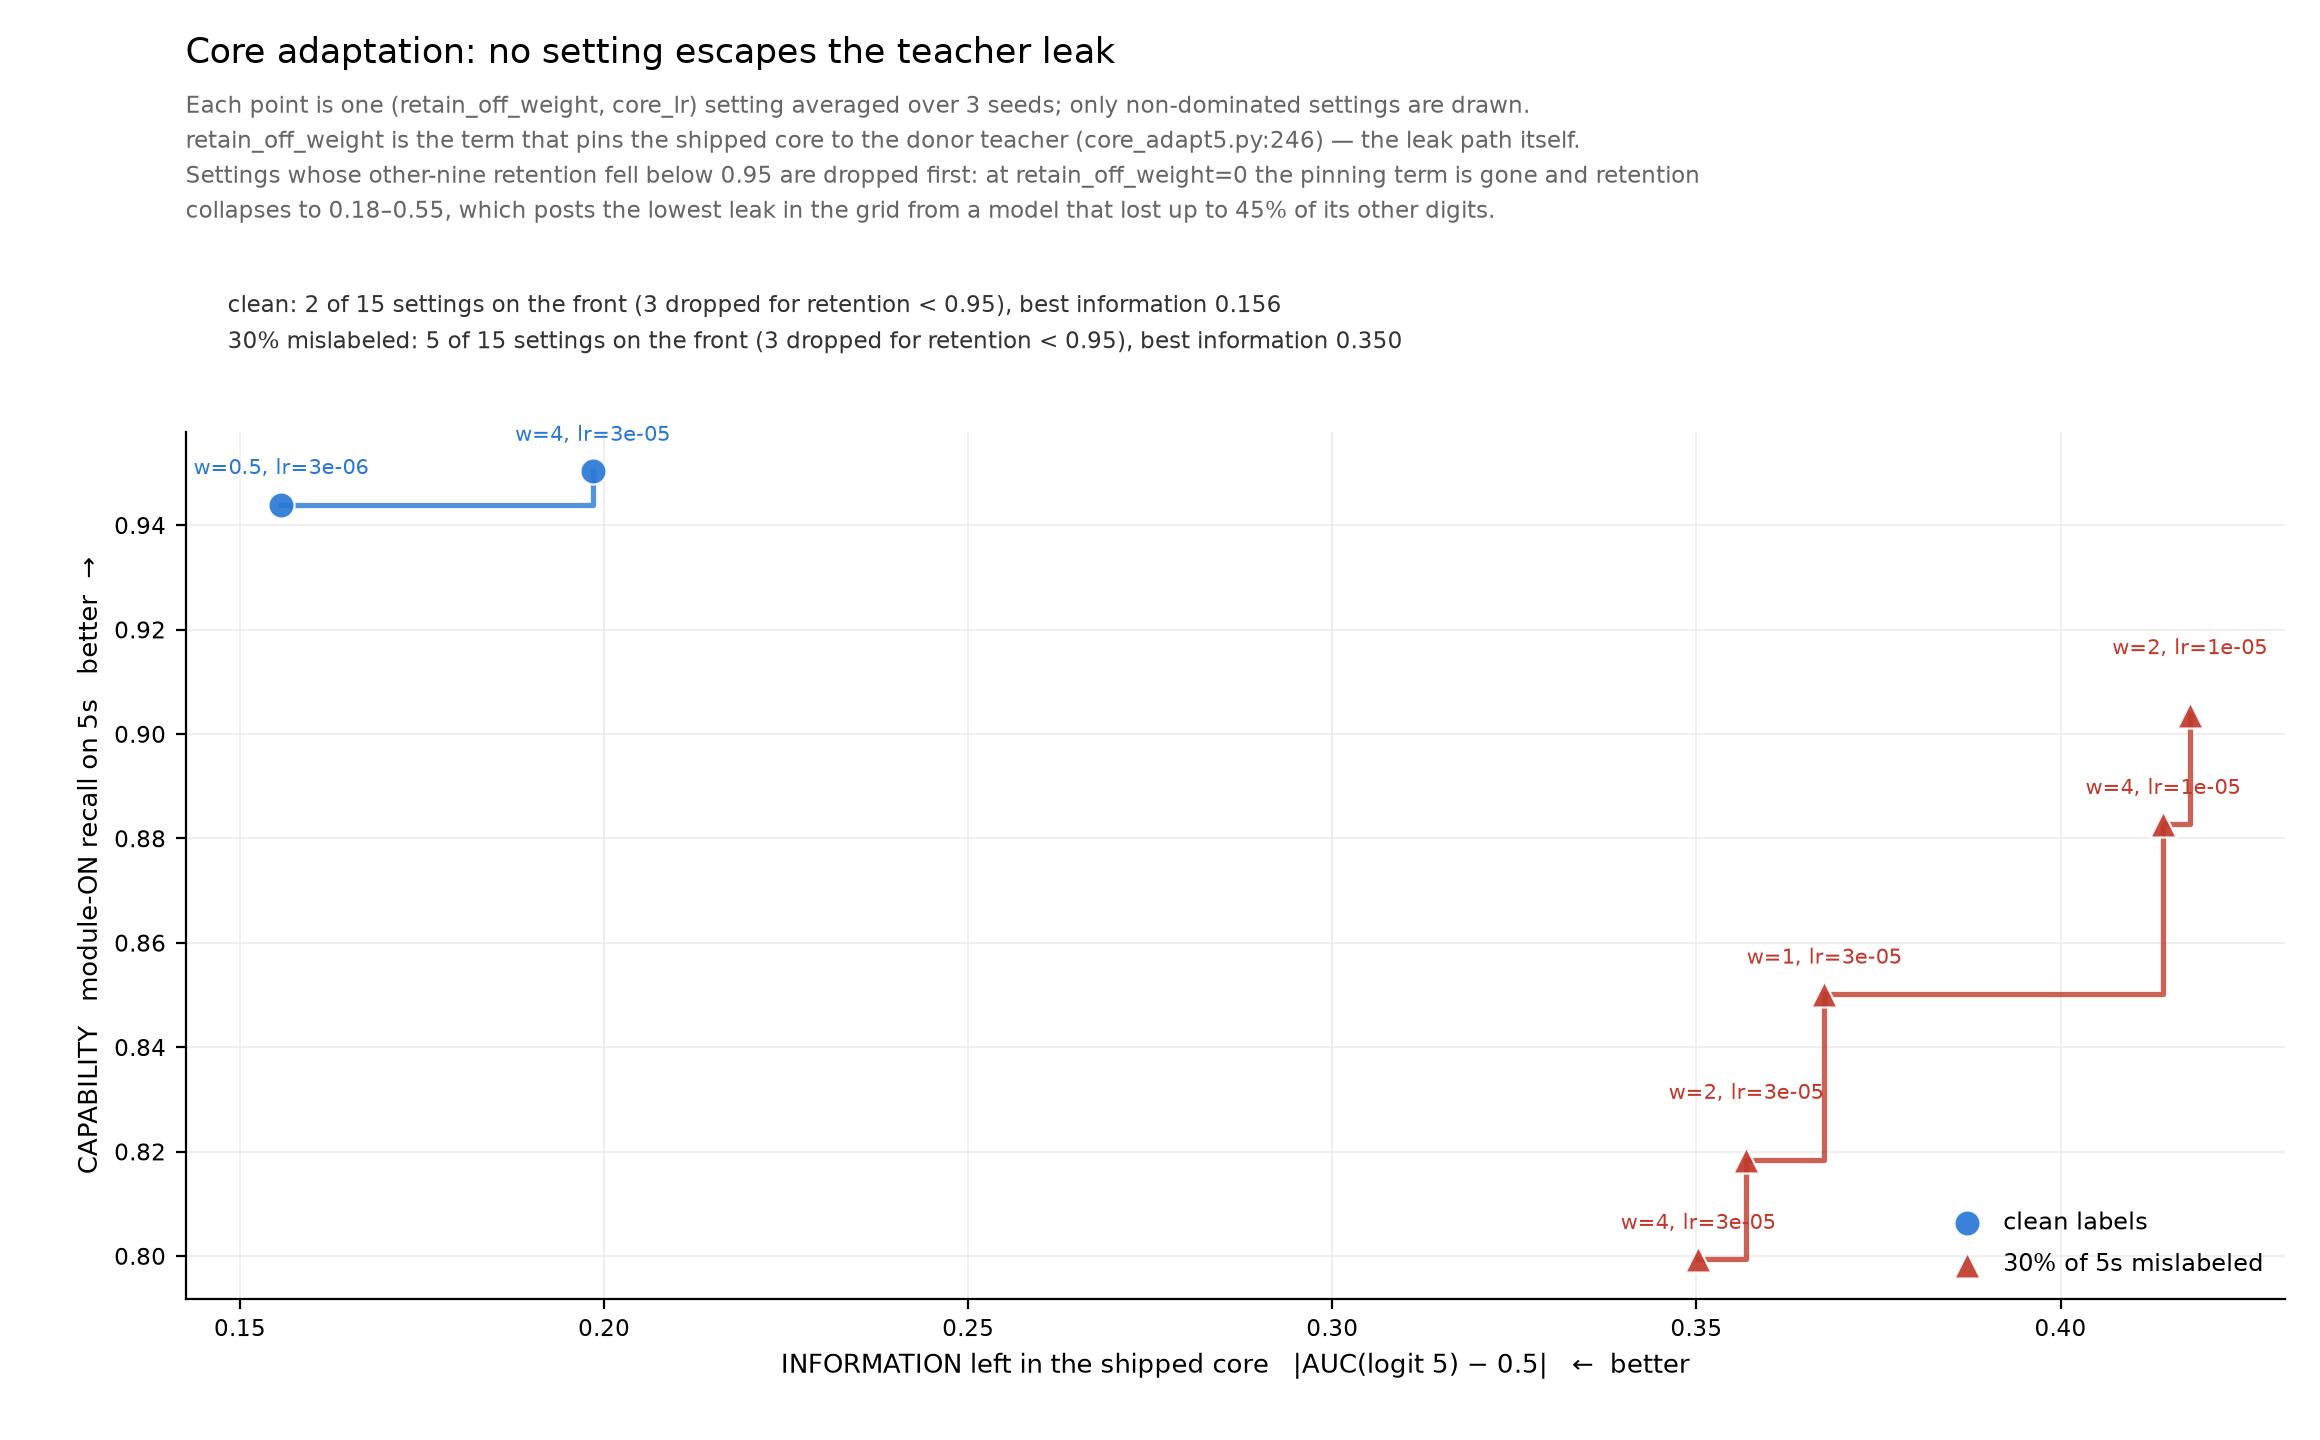
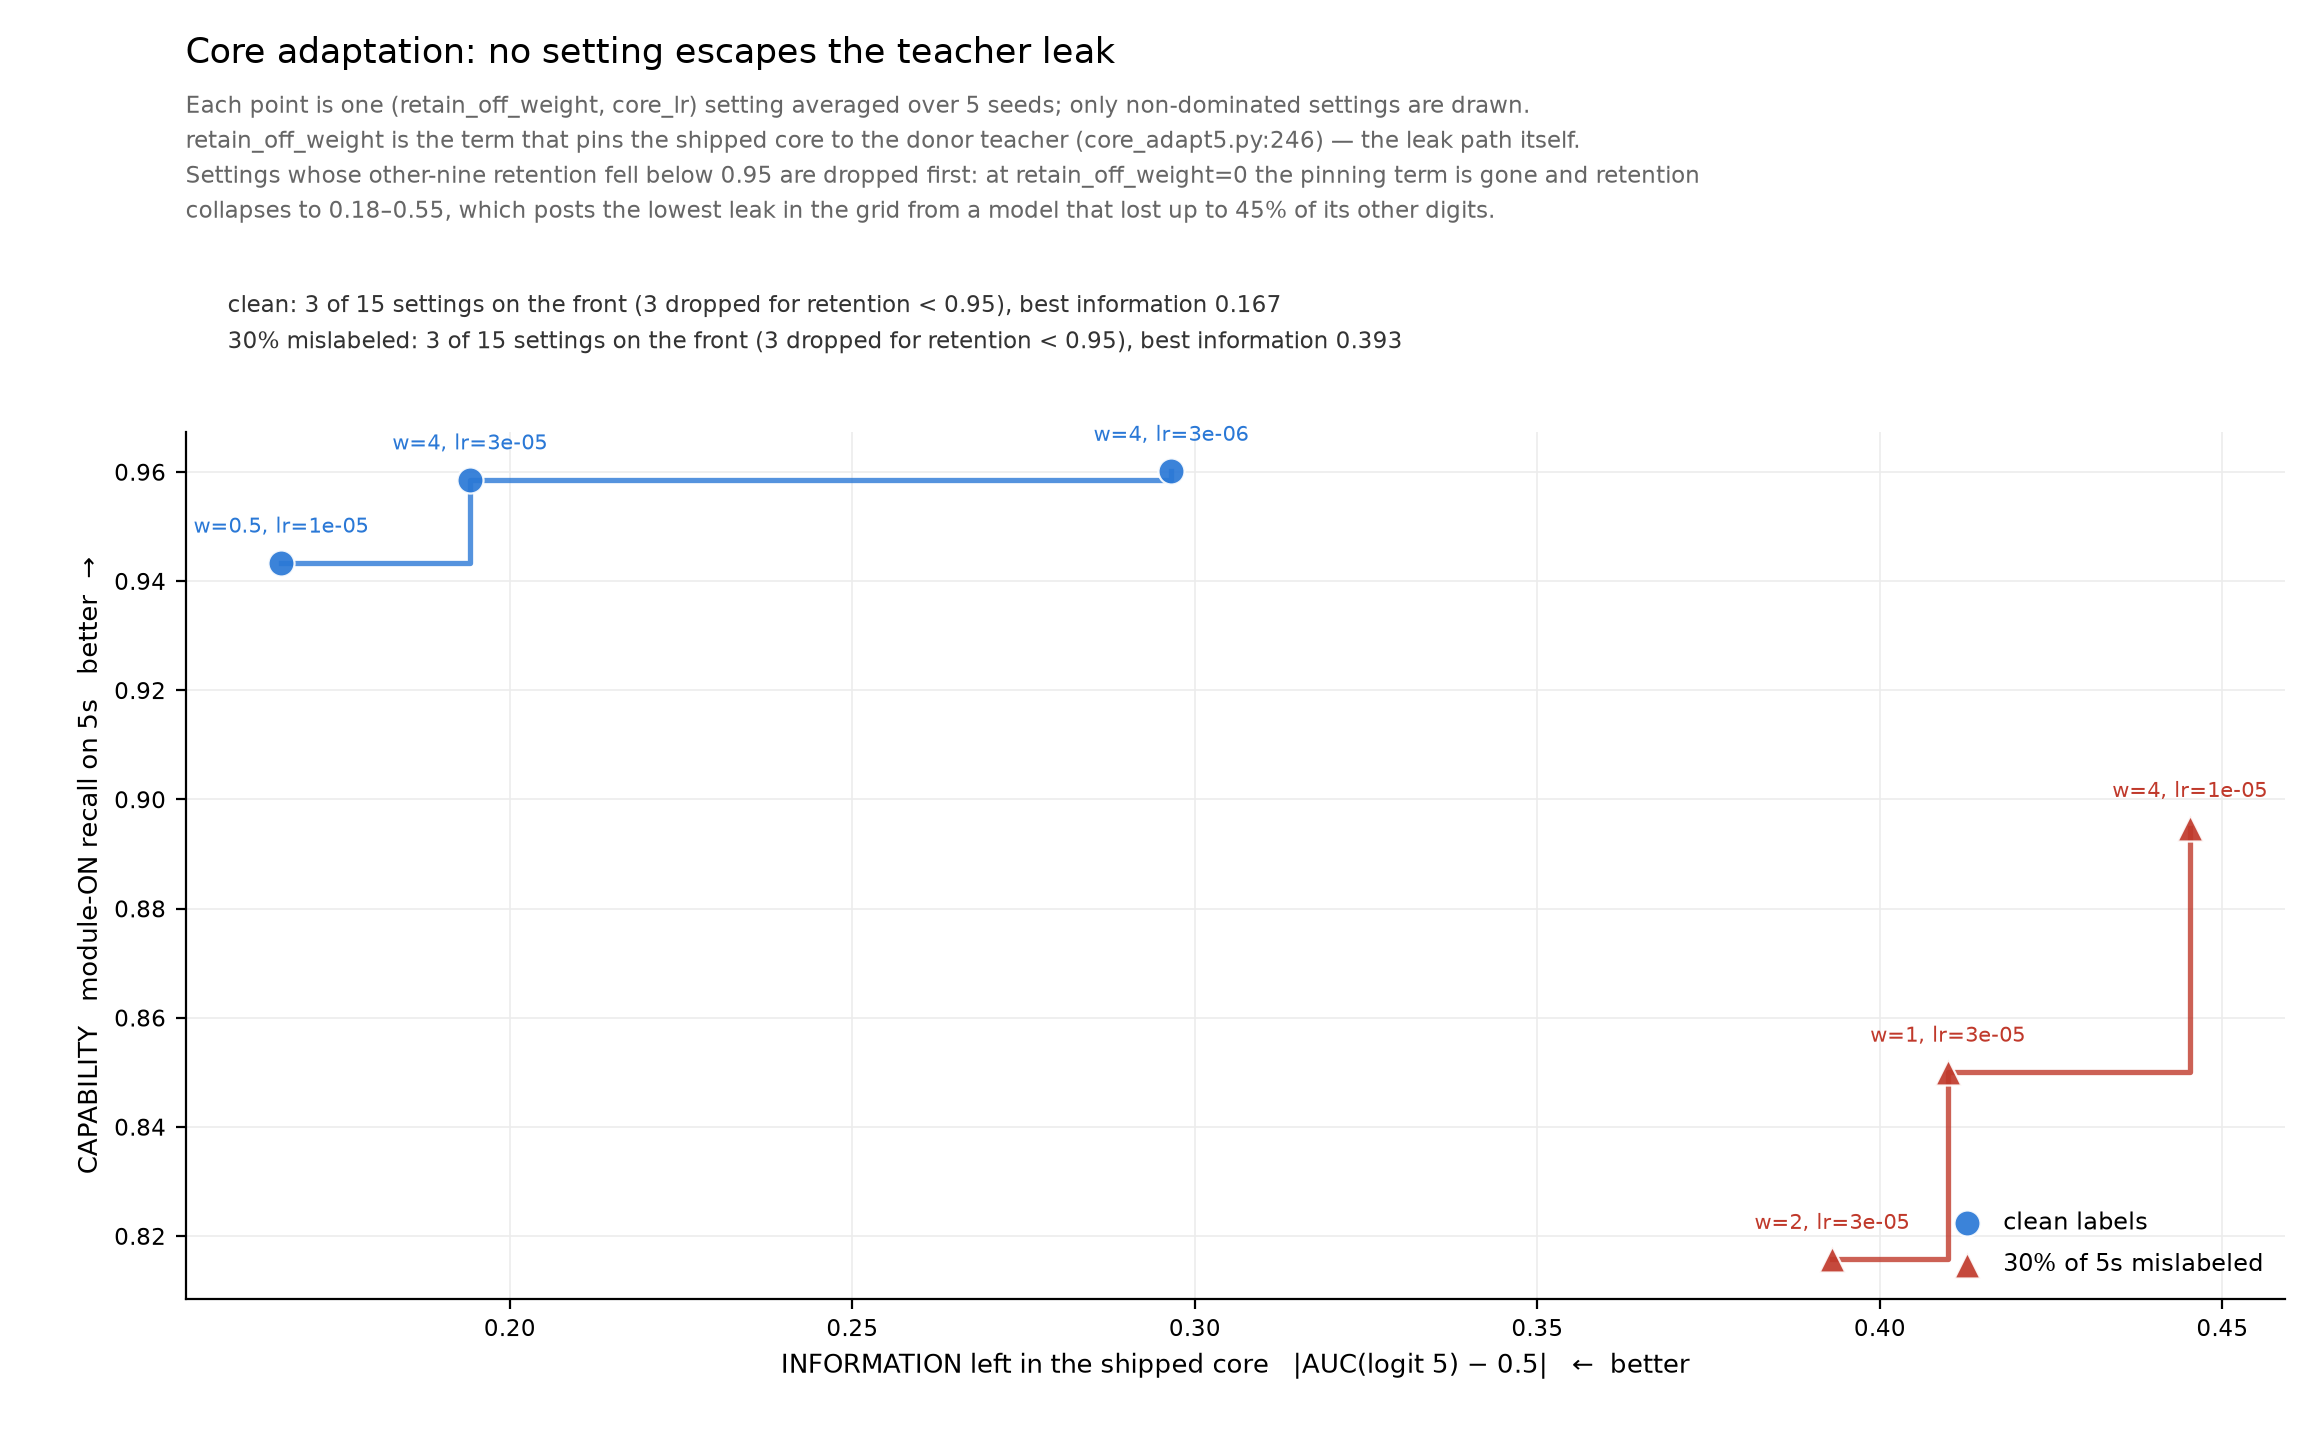
Core-adaptation grid at full 5 seeds; both fronts rebuilt
All 150 cells complete. The effect strengthens slightly at n=5: best retention-safe
information goes 0.167 clean -> 0.393 at 30% mislabeled (was 0.156 -> 0.350 at n=3), so
2.4x worse rather than 2.2x. The clean and noisy fronts remain disjoint on both axes with
a wide gap (clean 0.167-0.30, noisy 0.393-0.445).

Against GRAM on the same axes: GRAM 0.243 -> 0.082 (3x better under noise, 13 seeds),
core adaptation 0.167 -> 0.393 (2.4x worse, 5 seeds). The fronts cross -- core adaptation
is the better remover at clean labels and the worse one under noise, ending 4.8x apart.

diff --git a/ABSORPTION.md b/ABSORPTION.md
@@ -166,11 +166,12 @@ it. Only non-dominated settings drawn.
 | method | best information, clean | best, 30% mislabeled | direction |
 |---|---:|---:|---|
 | GRAM (p_as x p_cr, 25 settings) | 0.243 | **0.082** | **better** under noise |
-| core adaptation (w x core_lr, 15 settings) | 0.182 | **0.372** | **worse** under noise |
+| core adaptation (w x core_lr, 15 settings) | 0.167 | **0.393** | **worse** under noise |
 
 **The arrows cross.** At clean labels core adaptation is the better remover (0.182 against
 GRAM's 0.243). Add 30% mislabeling and the ordering inverts: GRAM improves 3x while core
-adaptation degrades 2x, ending 4.5x apart in the other direction.
+adaptation degrades 2.4x, ending 4.8x apart in the other direction. GRAM at 13 seeds, core
+adaptation at 5.
 
 The mechanism is the one established above. A mislabeled 5 reaches GRAM as a wrong **label**,
 and the wrong-label gradient pushes logit 5 down -- noise helps it forget. It reaches core
@@ -266,7 +267,7 @@ your label error rate.
 
 The analogue of the GRAM front above, over core adaptation's own two knobs:
 `retain_off_weight` (the term pinning the shipped core to the teacher -- the leak path) and
-`core_lr`. 3 seeds, 15 settings per noise level, 60 cycles each.
+`core_lr`. 5 seeds, 15 settings per noise level, 60 cycles each.
 
 The reliability filter differs by necessity. For GRAM the question was whether the module ever
 learned 5; here the capability is copied from a donor that already has it, so what breaks is
@@ -277,16 +278,16 @@ noise level are dropped on a 0.95 retention bar.
 
 | noise | on front | best information | at | retention | capability |
 |---|---:|---:|---|---:|---:|
-| clean | 2 of 15 | **0.156** | w=0.5, lr=3e-6 | 0.972 | 0.944 |
-| 30% | 5 of 15 | **0.350** | w=4, lr=3e-5 | 0.977 | 0.799 |
+| clean | 3 of 15 | **0.167** | w=0.5, lr=1e-5 | 0.973 | 0.943 |
+| 30% | 3 of 15 | **0.393** | w=2, lr=3e-5 | 0.978 | 0.815 |
 
 **The two fronts do not overlap on either axis.** Every retention-safe setting under noise
-leaks more (0.350-0.484) than every retention-safe setting at clean labels (0.156-0.299), and
+leaks more (0.393-0.484) than every retention-safe setting at clean labels (0.167-0.299), and
 the noisy front also sits lower in capability. Label noise costs leak AND capability at once.
 
 This is a sharper negative than GRAM's. There, moving along `p_cr` opened a genuinely better
 operating point under noise (0.082 against the baseline's 0.271). Here the best achievable
-under noise is **2.2x worse** than the best clean cell, across an 8x range of pinning weight
+under noise is **2.4x worse** than the best clean cell, across an 8x range of pinning weight
 and a 10x range of core learning rate. The knobs only trade leak against capability: buying
 capability 0.90 costs 0.418 leak, and paying down to 0.350 leak costs capability 0.80.
 
